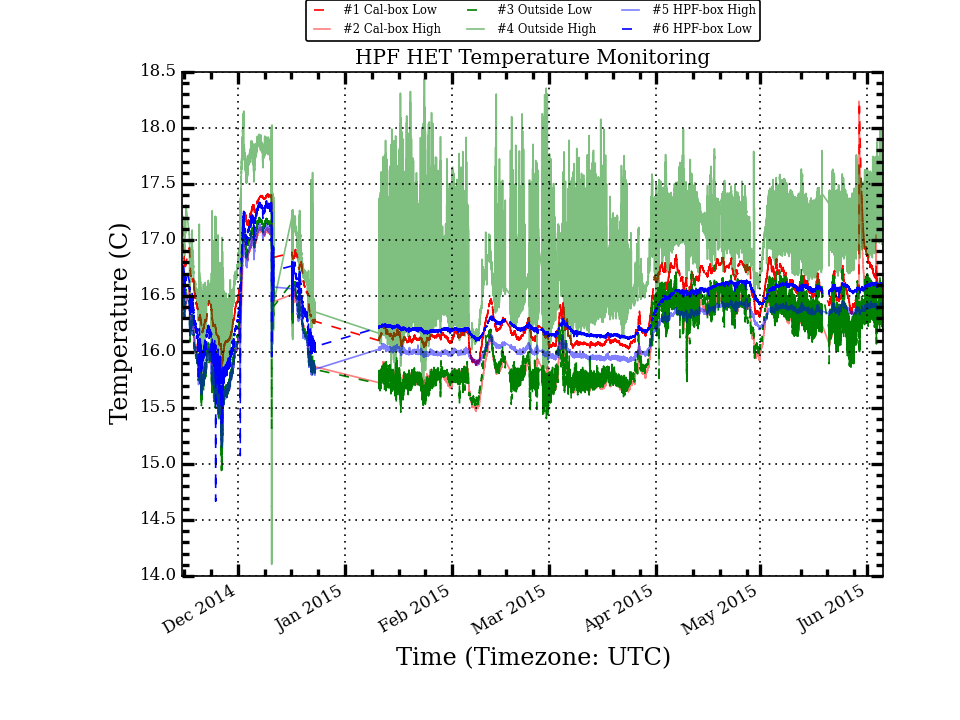
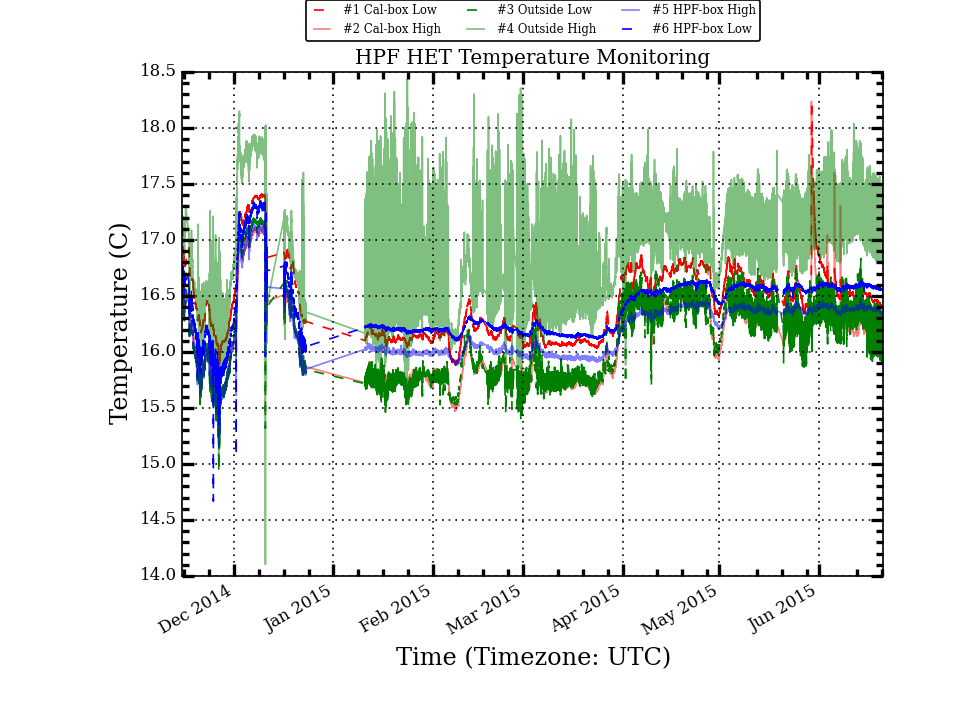
Update HPF Temp Plots

diff --git a/research/hpf_temps/plots/LakeShoreLogTotal_stats.html b/research/hpf_temps/plots/LakeShoreLogTotal_stats.html
@@ -10,54 +10,54 @@
  </TR>
  <TR>
   <TD>Cal_Low</TD>
-  <TD>16.436</TD>
-  <TD>0.352</TD>
-  <TD>16.364</TD>
+  <TD>16.442</TD>
+  <TD>0.338</TD>
+  <TD>16.435</TD>
   <TD>18.195</TD>
   <TD>15.840</TD>
   <TD>2.355</TD>
  </TR>
  <TR>
   <TD>Cal_High</TD>
-  <TD>16.087</TD>
-  <TD>0.377</TD>
-  <TD>15.995</TD>
+  <TD>16.095</TD>
+  <TD>0.363</TD>
+  <TD>16.075</TD>
   <TD>18.238</TD>
   <TD>15.410</TD>
   <TD>2.828</TD>
  </TR>
  <TR>
   <TD>Out_Low</TD>
-  <TD>16.114</TD>
-  <TD>0.398</TD>
-  <TD>16.025</TD>
+  <TD>16.129</TD>
+  <TD>0.387</TD>
+  <TD>16.121</TD>
   <TD>17.201</TD>
   <TD>14.942</TD>
   <TD>2.259</TD>
  </TR>
  <TR>
   <TD>Out_High</TD>
-  <TD>16.864</TD>
-  <TD>0.465</TD>
-  <TD>16.834</TD>
+  <TD>16.897</TD>
+  <TD>0.463</TD>
+  <TD>16.915</TD>
   <TD>18.436</TD>
   <TD>14.104</TD>
   <TD>4.332</TD>
  </TR>
  <TR>
   <TD>HPF_High</TD>
-  <TD>16.186</TD>
-  <TD>0.285</TD>
-  <TD>16.067</TD>
+  <TD>16.202</TD>
+  <TD>0.279</TD>
+  <TD>16.198</TD>
   <TD>17.147</TD>
   <TD>15.149</TD>
   <TD>1.998</TD>
  </TR>
  <TR>
   <TD>HPF_Low</TD>
-  <TD>16.383</TD>
-  <TD>0.283</TD>
-  <TD>16.265</TD>
+  <TD>16.399</TD>
+  <TD>0.276</TD>
+  <TD>16.382</TD>
   <TD>17.356</TD>
   <TD>14.668</TD>
   <TD>2.688</TD>
